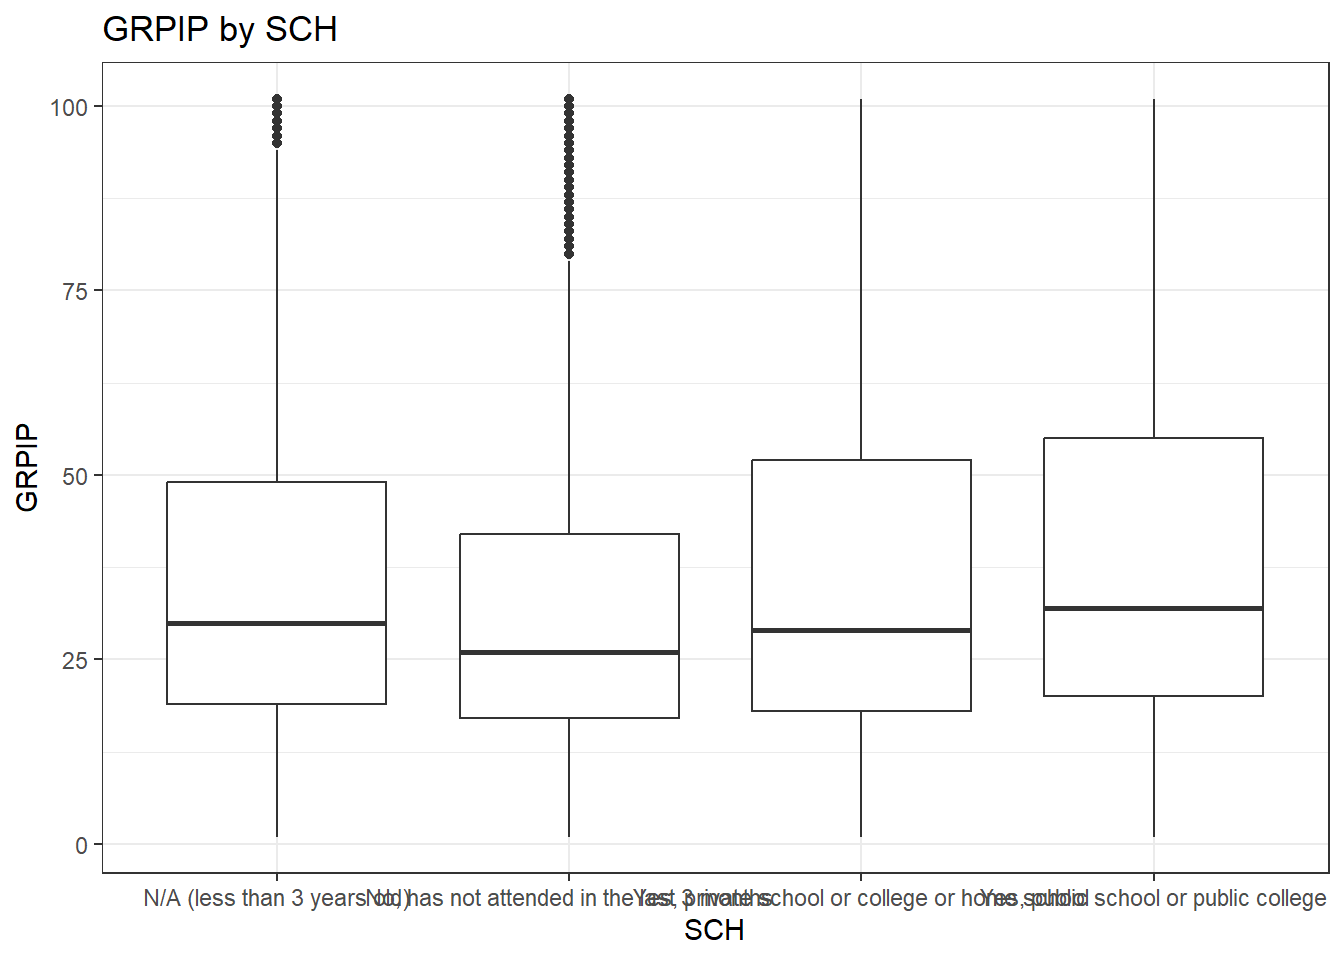
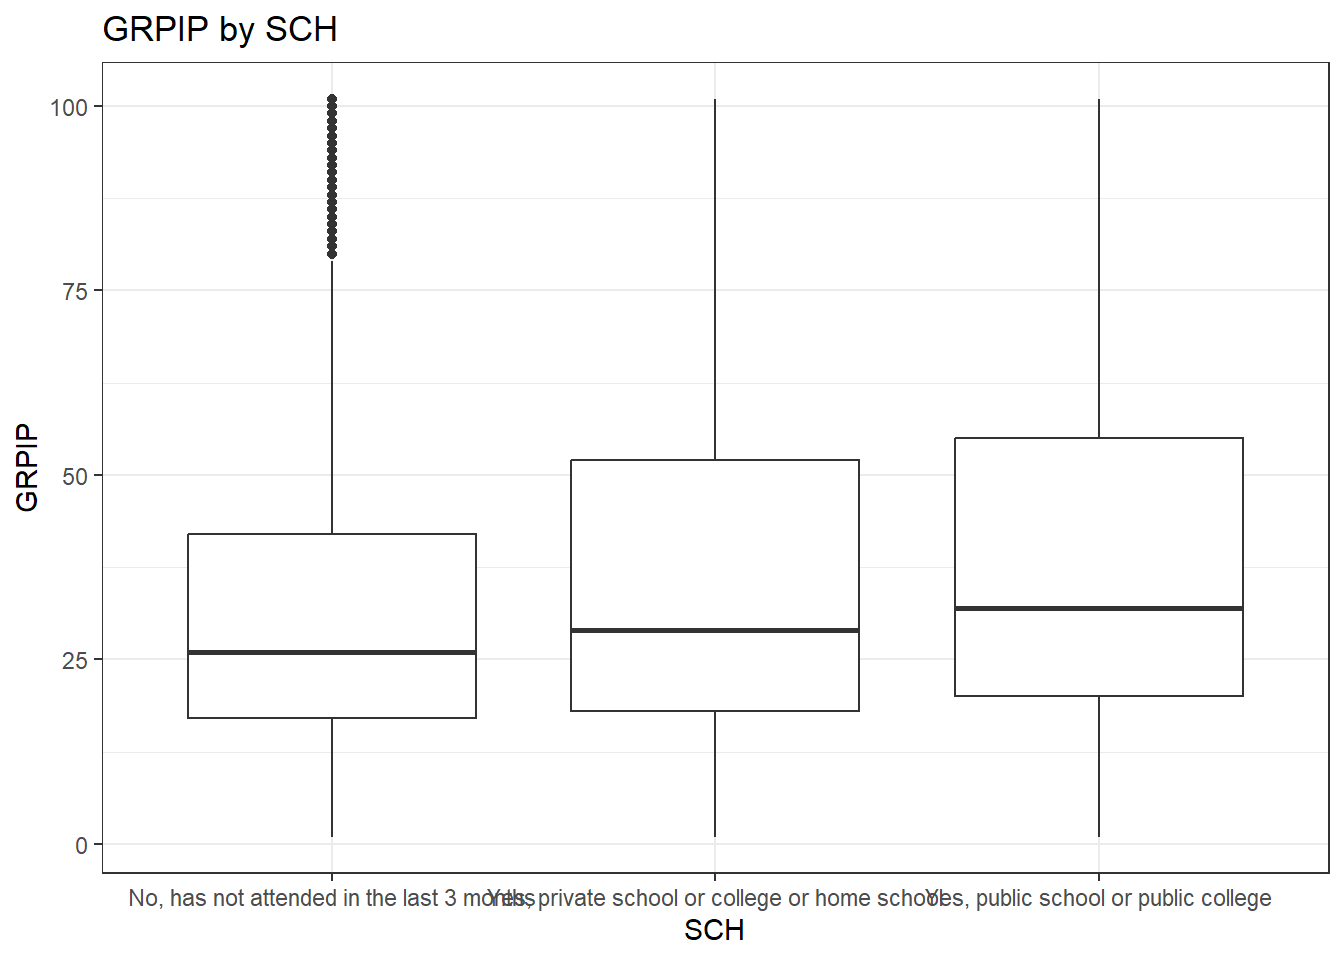
Fixed graph

diff --git a/docs/ST558_Project_1.html b/docs/ST558_Project_1.html
@@ -905,9 +905,11 @@ Female   Male
 </div>
 <p>Now we can see that across state the median and the distribution is approximately the same, with Tennessee have a lower deviation compared to North Carolina and South Carolina.</p>
 <p>Also there is a higher concentration of outliers at the highest level for Tennessee and North Carolina, but lower in South Carolina, giving us some insight how is the rent compared to income in those states.</p>
-<p>Finally we are going to compare how is the age is related with school enrollment.</p>
+<p>Finally we are going to compare how is the percentage of income for rent is related with school enrollment.</p>
 <div class="cell">
-<div class="code-copy-outer-scaffold"><div class="sourceCode cell-code" id="cb29"><pre class="sourceCode r code-with-copy"><code class="sourceCode r"><span id="cb29-1"><a href="#cb29-1" aria-hidden="true" tabindex="-1"></a><span class="fu">plot.census</span>(SE_data <span class="sc">|&gt;</span> <span class="fu">filter</span>(GRPIP <span class="sc">!=</span> <span class="dv">0</span>) , <span class="at">num_var =</span> <span class="st">"GRPIP"</span>, <span class="at">cat_var =</span> <span class="st">"SCH"</span>)</span></code></pre></div><button title="Copy to Clipboard" class="code-copy-button"><i class="bi"></i></button></div>
+<div class="code-copy-outer-scaffold"><div class="sourceCode cell-code" id="cb29"><pre class="sourceCode r code-with-copy"><code class="sourceCode r"><span id="cb29-1"><a href="#cb29-1" aria-hidden="true" tabindex="-1"></a><span class="fu">plot.census</span>(SE_data <span class="sc">|&gt;</span> <span class="fu">filter</span>(GRPIP <span class="sc">!=</span> <span class="dv">0</span>) <span class="sc">|&gt;</span></span>
+<span id="cb29-2"><a href="#cb29-2" aria-hidden="true" tabindex="-1"></a>              <span class="fu">filter</span>(SCH <span class="sc">!=</span> <span class="st">"N/A (less than 3 years old)"</span>) ,</span>
+<span id="cb29-3"><a href="#cb29-3" aria-hidden="true" tabindex="-1"></a>            <span class="at">num_var =</span> <span class="st">"GRPIP"</span>, <span class="at">cat_var =</span> <span class="st">"SCH"</span>)</span></code></pre></div><button title="Copy to Clipboard" class="code-copy-button"><i class="bi"></i></button></div>
 <div class="cell-output-display">
 <div>
 <figure class="figure">
